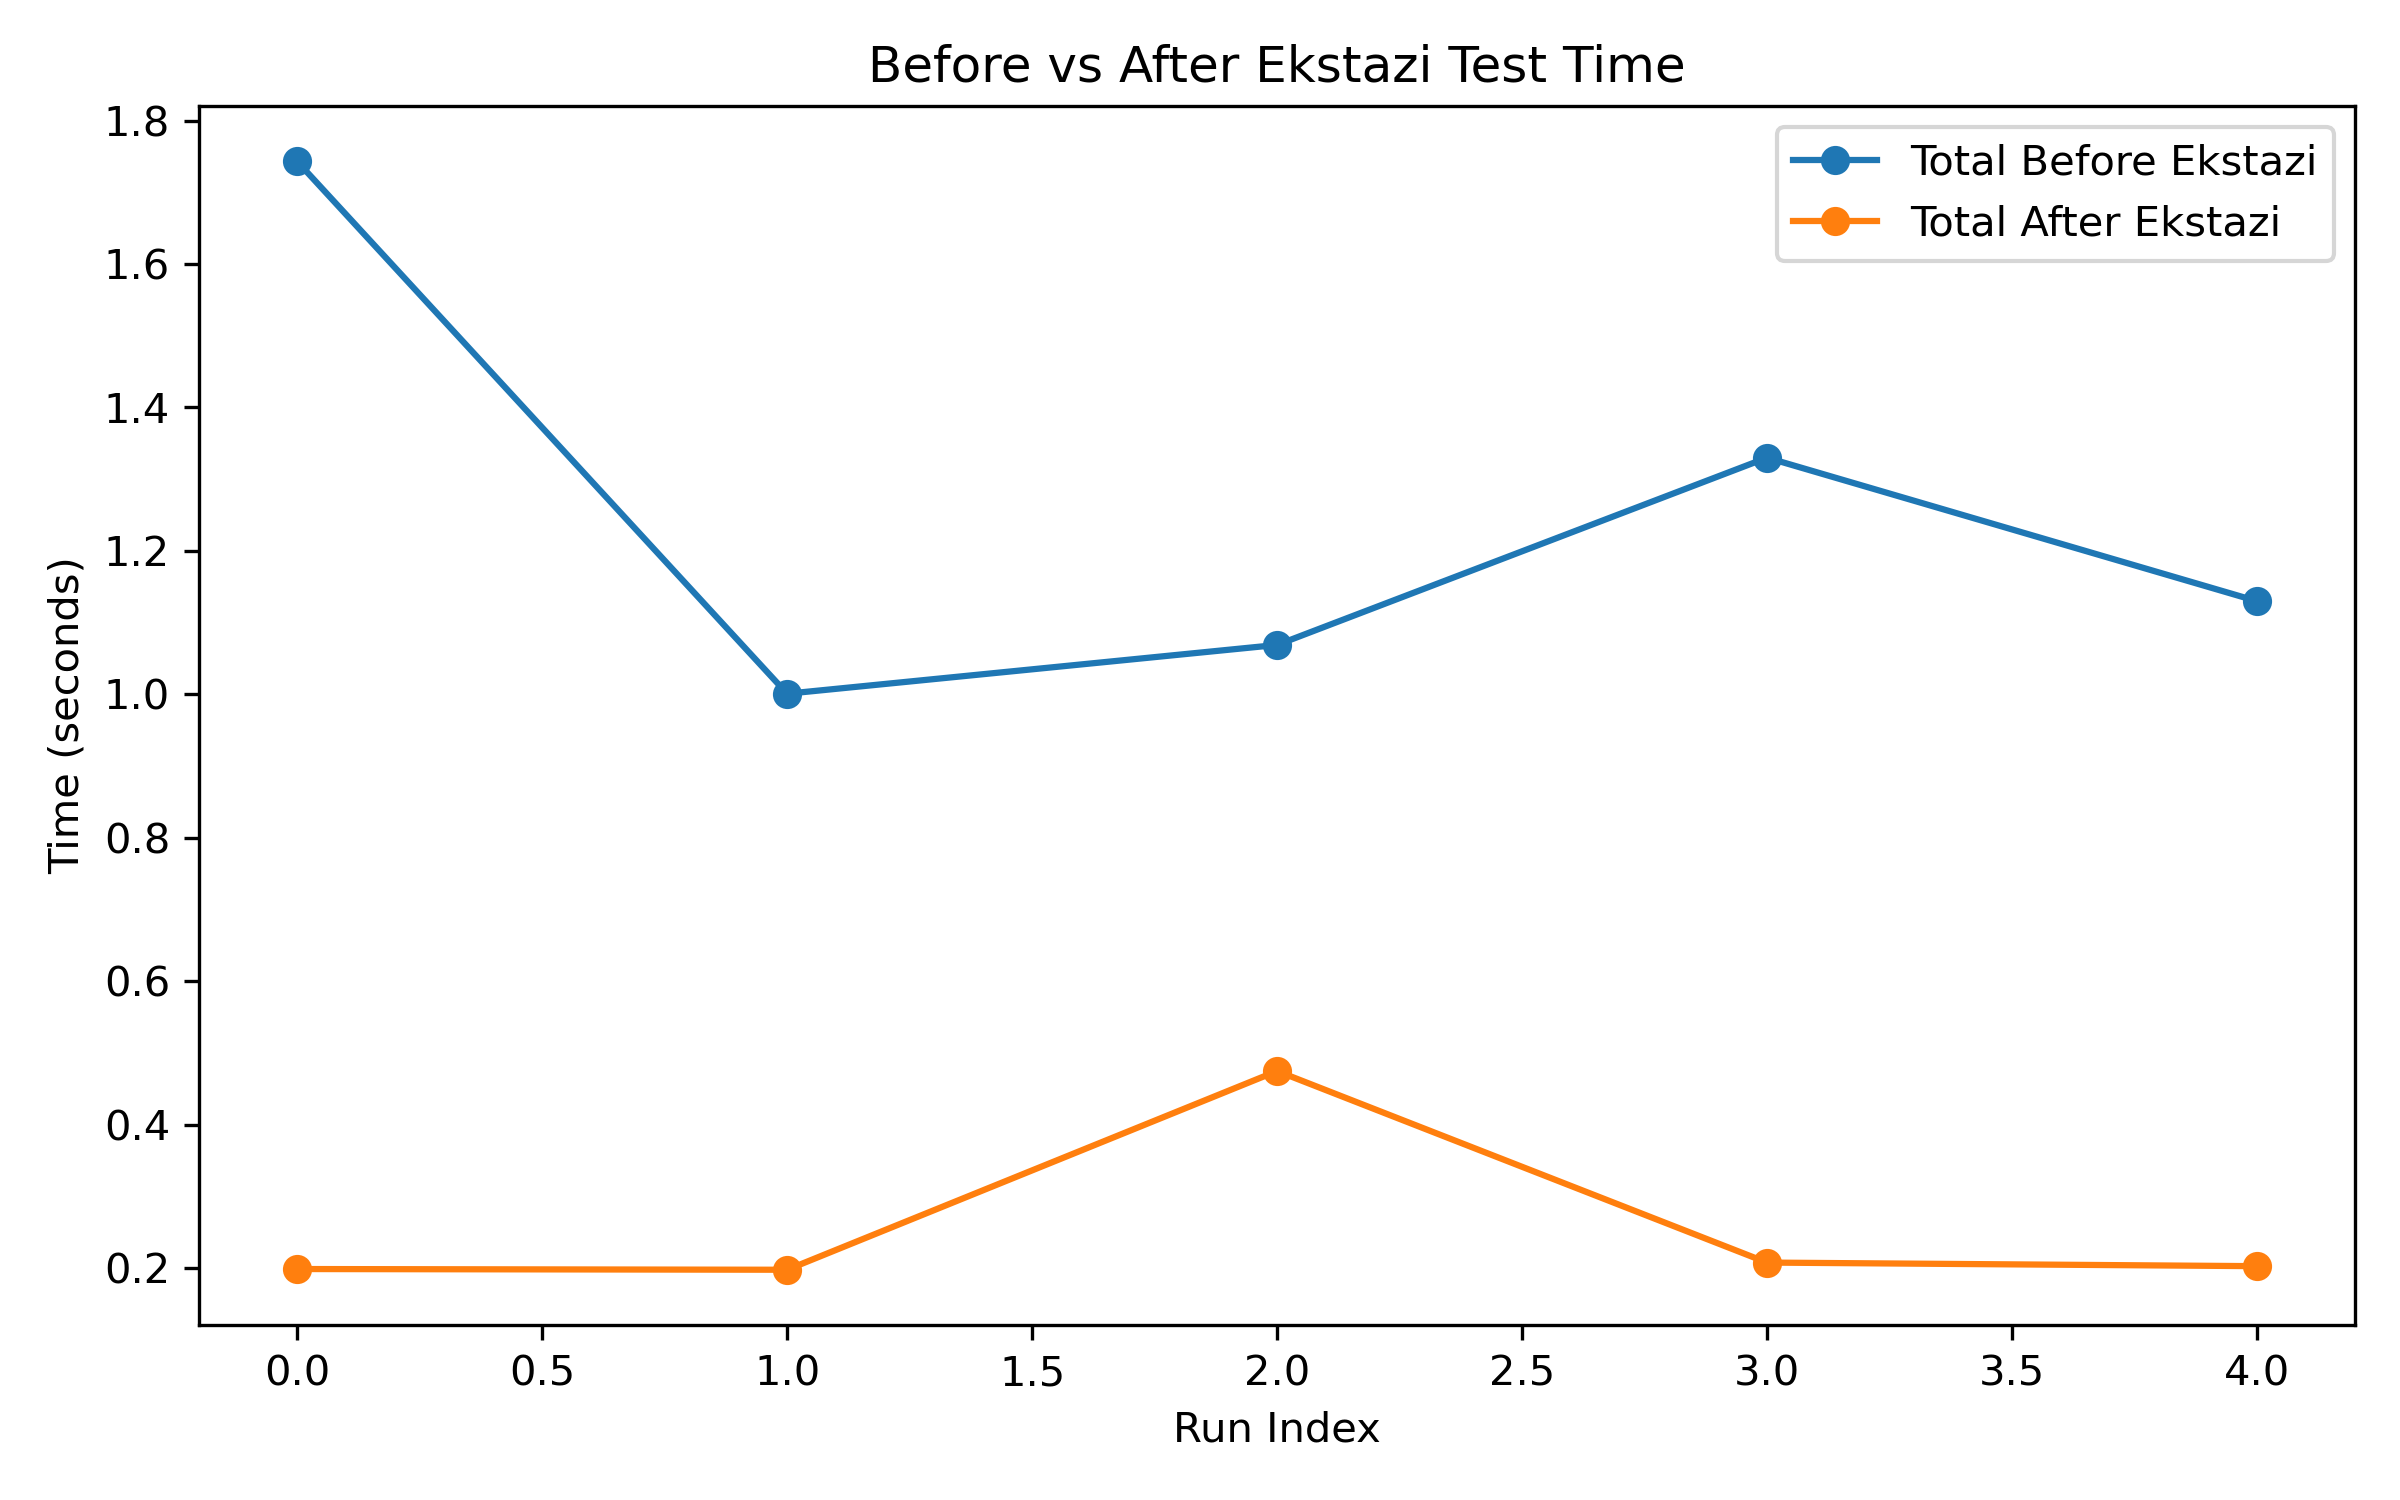
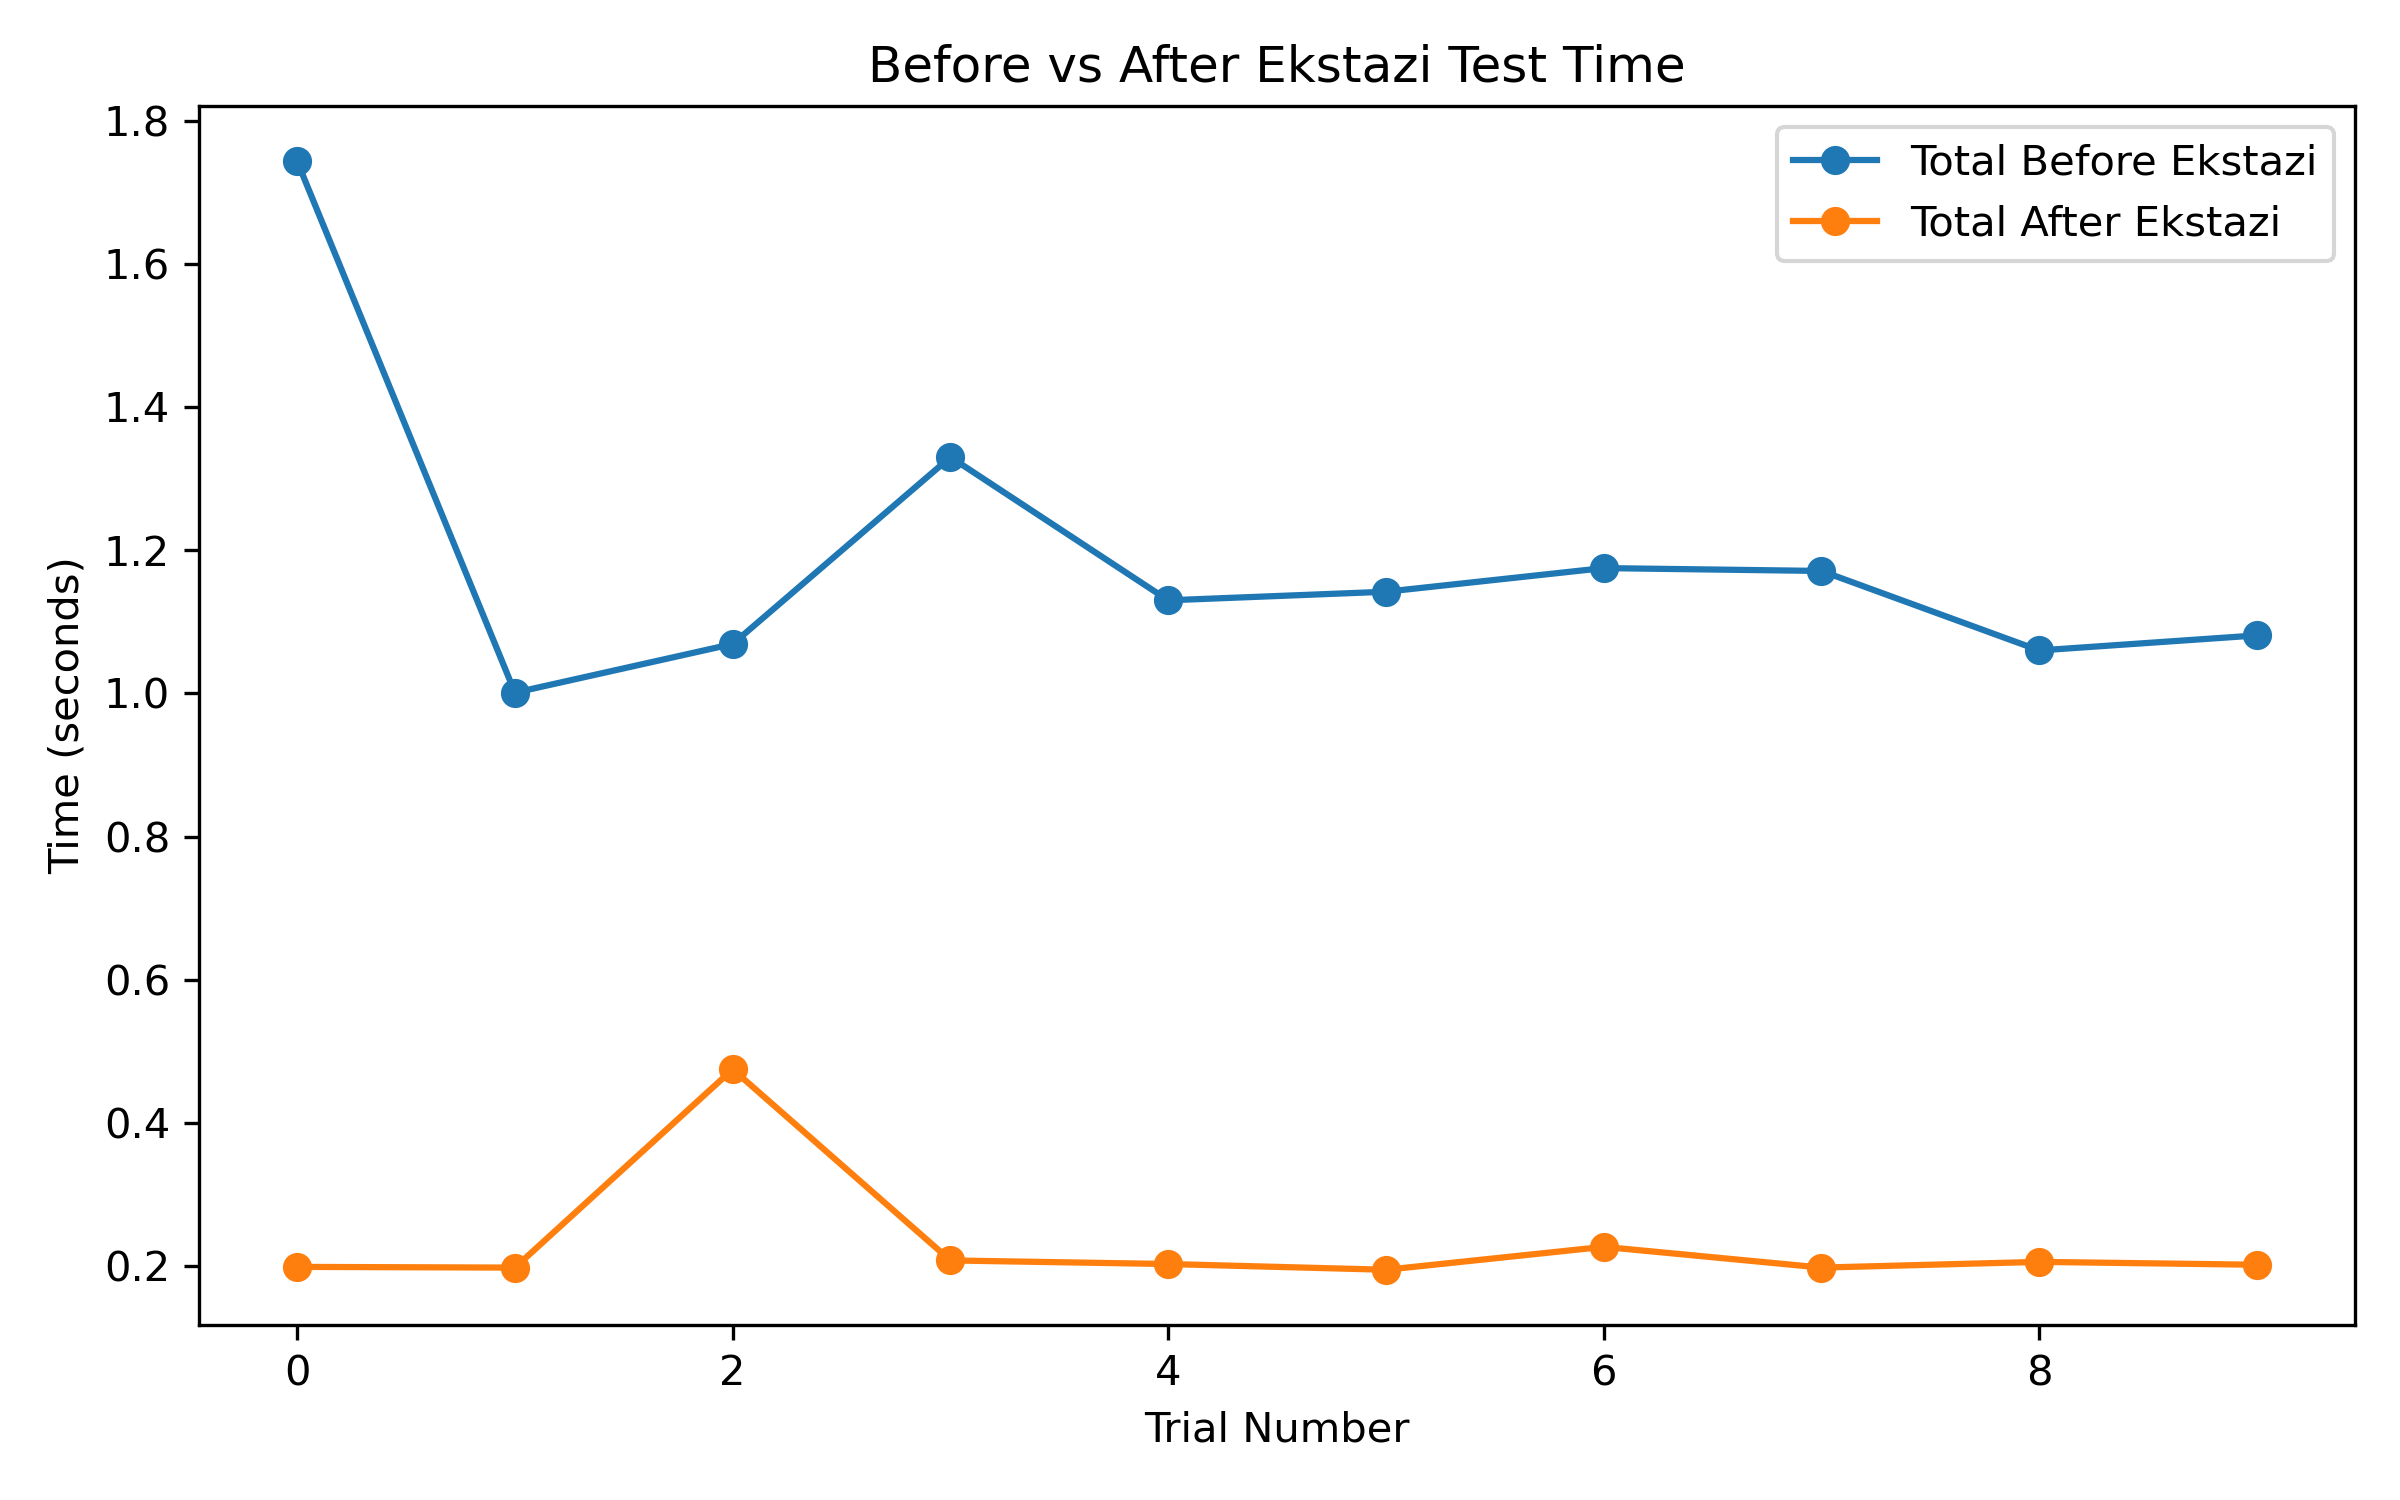
New Data

diff --git a/Data/data.py b/Data/data.py
@@ -3,10 +3,10 @@ import matplotlib.pyplot as plt
 
 # Data
 data = {
-    "calcTest_before": [1.741, 1.0, 1.067, 1.329, 1.128],
-    "triTest_before":  [0.002, 0.001, 0.002, 0.001, 0.002],
-    "calcop_after":    [0.056, 0.06, 0.123, 0.055, 0.058],
-    "triop_after":     [0.143, 0.138, 0.352, 0.153, 0.145]
+    "calcTest_before": [1.741, 1.0, 1.067, 1.329, 1.128, 1.138, 1.169, 1.168, 1.057, 1.079],
+    "triTest_before":  [0.002, 0.001, 0.002, 0.001, 0.002, 0.004, 0.006, 0.003, 0.003, 0.002],
+    "calcop_after":    [0.056, 0.06, 0.123, 0.055, 0.058, 0.056, 0.067, 0.067, 0.078, 0.048],
+    "triop_after":     [0.143, 0.138, 0.352, 0.153, 0.145, 0.139, 0.160, 0.131, 0.128, 0.154]
 }
 
 # DataFrame
@@ -27,7 +27,7 @@ plt.figure(figsize=(8,5))
 plt.plot(df.index, df["total_before"], marker='o', label="Total Before Ekstazi")
 plt.plot(df.index, df["total_after"], marker='o', label="Total After Ekstazi")
 
-plt.xlabel("Run Index")
+plt.xlabel("Trial Number")
 plt.ylabel("Time (seconds)")
 plt.title("Before vs After Ekstazi Test Time")
 plt.legend()

diff --git a/src/main/java/com/teamproject/triangle/Triangle.java b/src/main/java/com/teamproject/triangle/Triangle.java
@@ -1,9 +1,13 @@
 package com.teamproject.triangle;
+import org.junit.Test;
+import static org.junit.Assert.*;
 
 public class Triangle {
     public String classify(int a, int b, int c) {
 
-        if (a <= 0 || b <= 0 || c <= 0) {
+        int x = 1;
+
+        if (a + 7 <= 0 || b <= 0 || c <= 0) {
             return "invalid";
         }
         

diff --git a/src/main/java/com/teamproject/calculator/Calculator.java b/src/main/java/com/teamproject/calculator/Calculator.java
@@ -1,4 +1,6 @@
 package com.teamproject.calculator;
+import org.junit.Test;
+import static org.junit.Assert.*;
 
 public class Calculator {
 
@@ -12,7 +14,7 @@ public class Calculator {
     }
 
     public int mul(int a, int b) {
-        return a * b;
+        return a + b;
     }
 
     public int div(int a, int b) {
